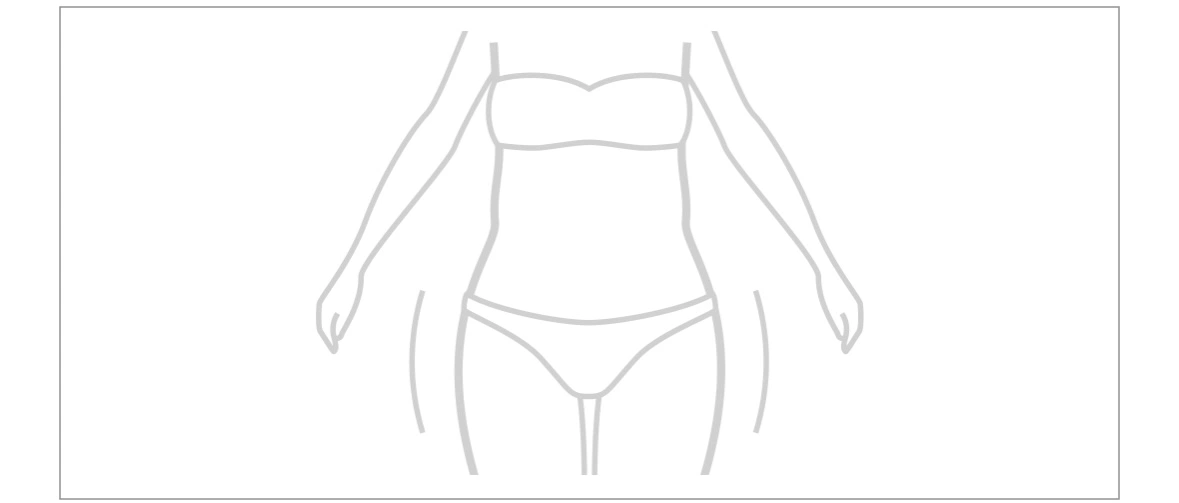
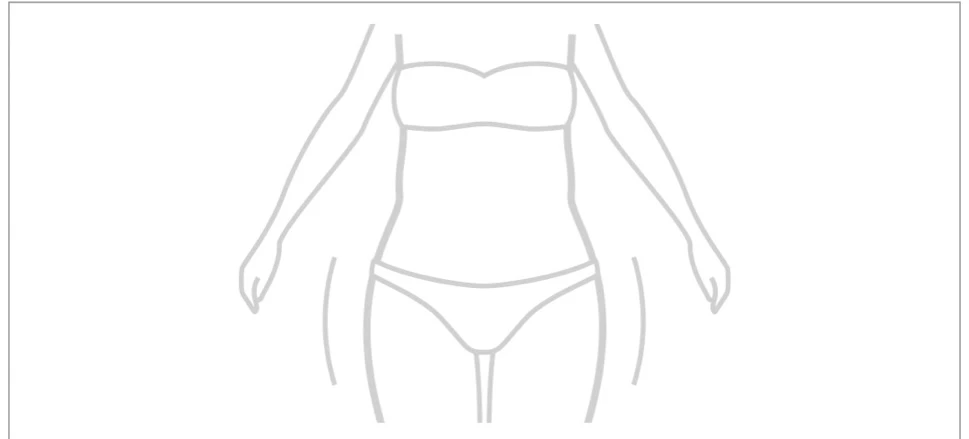
Wire the remaining body-shape quiz illustrations (Flat/Full/Slim/Wide)
All 6 abdomen/hips options in the size-recommendation quiz now have
their own dedicated illustration (previously Flat/Full/Slim/Wide fell
back to the plain default image, only Medium/Regular had one).

Changed region(s): [[0.031, 0.0592, 0.9598, 1.0], [0.0, 0.0, 1.0, 1.0]]

diff --git a/bymarccc-product.html b/bymarccc-product.html
@@ -1629,21 +1629,20 @@
   }
 
   /* ---- Silhouette ---- */
-  /* Production illustration assets (supplied, not generated). Each value maps
-     to its own supplied image; a missing value falls back to the neutral
-     default illustration until its own active asset is supplied. */
+  /* Production illustration assets (supplied, not generated) — every option now has
+     its own dedicated image. */
   const SIL_IMG = {
     abdomen: {
       default: 'assets/img/silhouette/sil-abdomen-default.webp',
-      Flat: 'assets/img/silhouette/sil-abdomen-default.webp',
+      Flat: 'assets/img/silhouette/sil-abdomen-flat.webp',
       Medium: 'assets/img/silhouette/sil-abdomen-medium.webp',
-      Full: 'assets/img/silhouette/sil-abdomen-default.webp',
+      Full: 'assets/img/silhouette/sil-abdomen-full.webp',
     },
     hips: {
       default: 'assets/img/silhouette/sil-hips-default.webp',
-      Slim: 'assets/img/silhouette/sil-hips-default.webp',
+      Slim: 'assets/img/silhouette/sil-hips-slim.webp',
       Regular: 'assets/img/silhouette/sil-hips-regular.webp',
-      Wide: 'assets/img/silhouette/sil-hips-default.webp',
+      Wide: 'assets/img/silhouette/sil-hips-wide.webp',
     },
   };
   function renderShape() {
